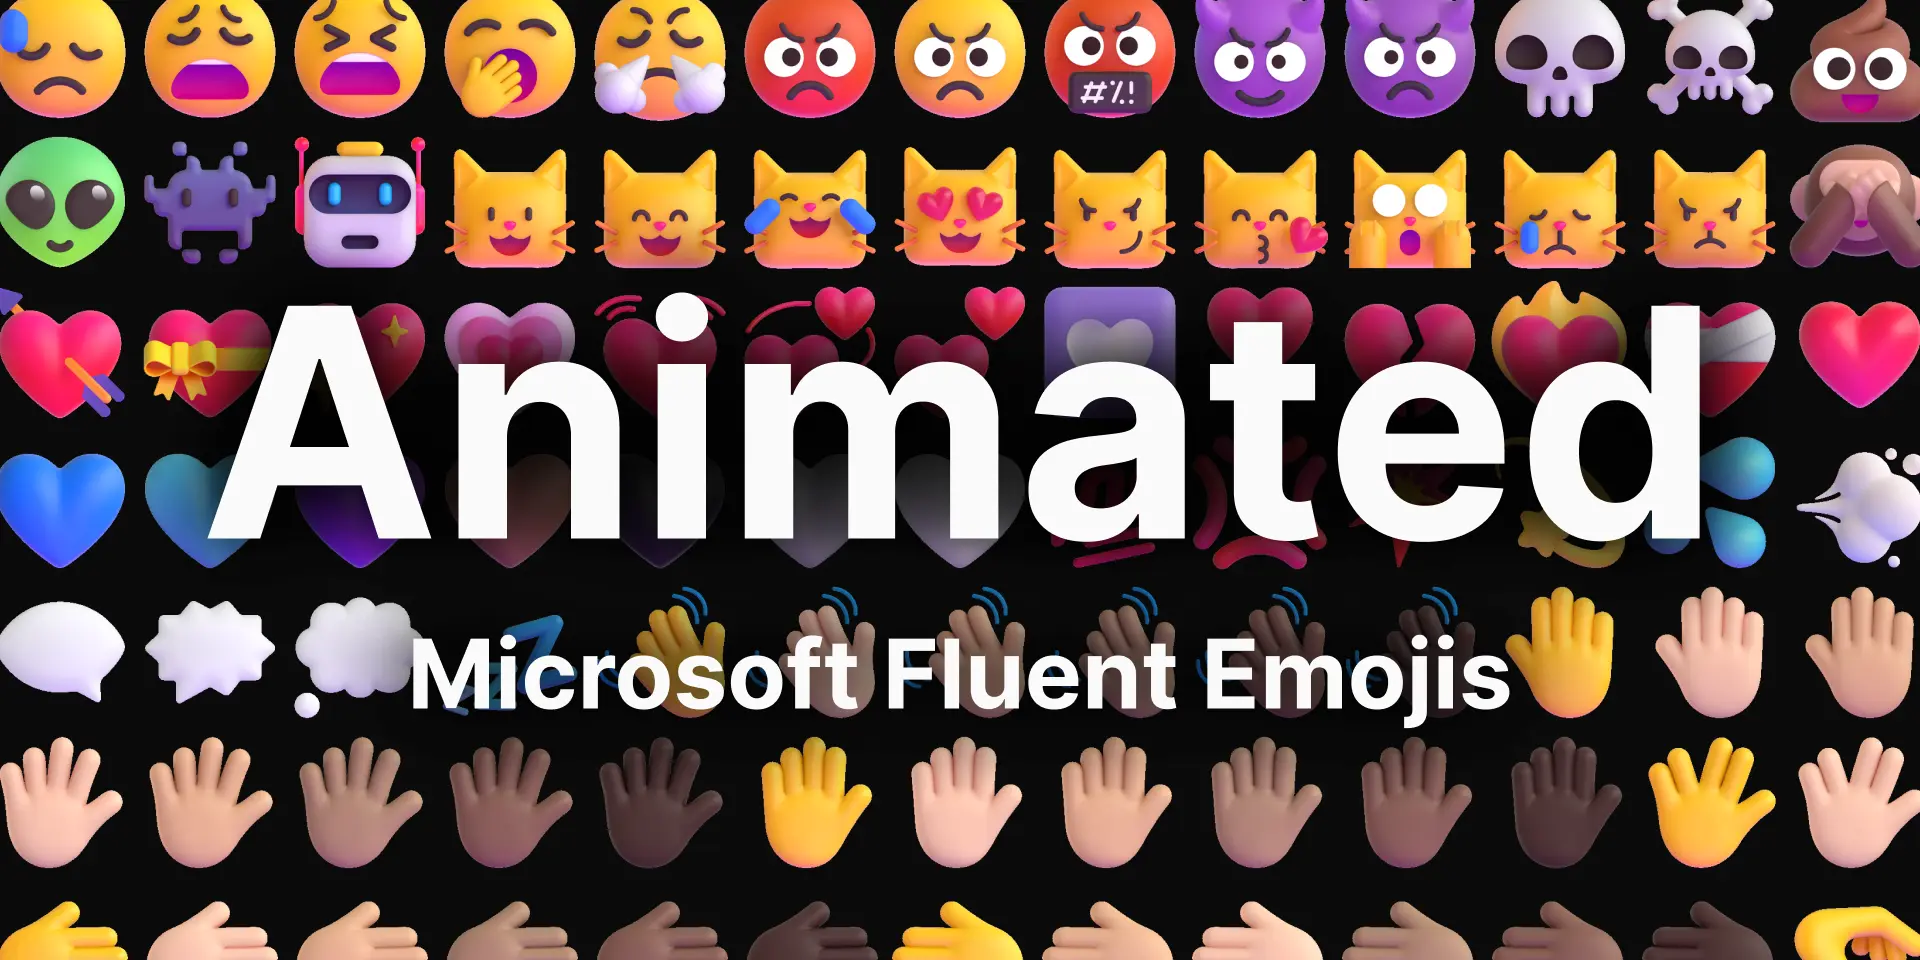
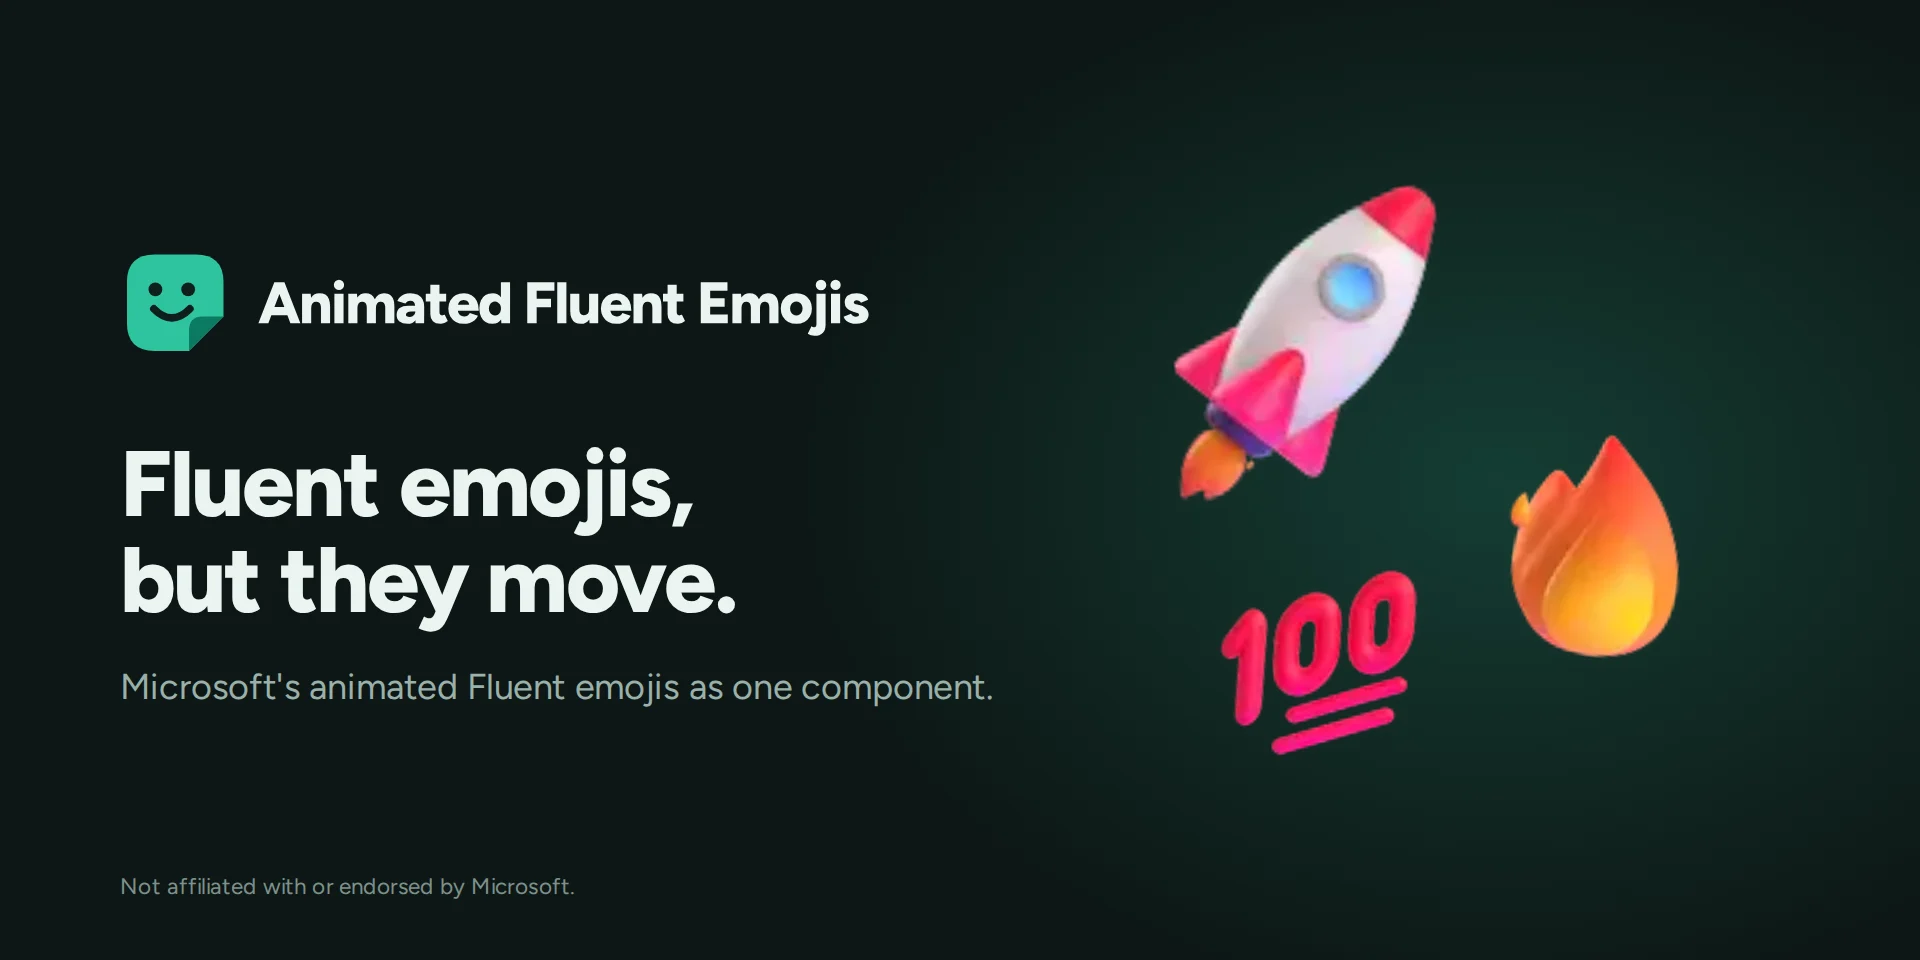
docs: 📝 apply the brand kit (#45)
## Summary

Applies the brand kit merged in #44 to the repository surfaces listed in
`docs/brand/apply-spec.md`.

- README: new intro and non-affiliation notice, features from
`docs/brand/copy.md`, the "Exclusive Feature" callout removed, headings
without decorative emoji, regenerated cover.
- `package.json`: new description and keywords. `CHANGELOG.md`:
`[Unreleased]` entry.
- ADR 0012 (brand kit lives in `docs/brand/`), docs index, `AGENTS.md`
and `docs/development.md` notes for `bun run brand:export`.

## Why

The kit was merged but the README, npm page and docs still described the
project with the old copy, including a claim ("first time", "exclusive")
the brand rules rule out.

## Notes

- Technical uses of "official" (official id, official repository) stay,
since they name Microsoft's upstream artifacts.
- GitHub settings (social preview, About, topics) are applied by hand
afterwards, per `docs/brand/apply-spec.md`.
- `bun run check`, `bun run test` and `bun run lint:docs` pass.

Closes AO-1343, AO-1344, AO-1345

diff --git a/README.md b/README.md
@@ -11,10 +11,21 @@
   <a href="https://scorecard.dev/viewer/?uri=github.com/AndryOre/animated-fluent-emojis"><img src="https://api.scorecard.dev/projects/github.com/AndryOre/animated-fluent-emojis/badge" alt="OpenSSF Scorecard"></a>
 </p>
 
-**Animated Fluent Emojis** is a React component library that brings Microsoft's
-Fluent emojis to life in your web applications. This library offers an easy way
-to integrate expressive and engaging animated emojis, enhancing user experience
-and visual appeal in your React projects.
+**Fluent emojis, but they move.**
+
+Drop Microsoft's animated Fluent emojis into a React app: one import, one tag.
+They play on load or on hover, rest on a still frame when someone asks for less
+motion, and hold their space in the layout while they load.
+
+```jsx
+<Emoji id="1f44b_wavinghand" />
+```
+
+Works with React 18 and 19.
+
+The artwork belongs to Microsoft. The code is ISC. This project is not
+affiliated with or endorsed by Microsoft. See
+[Assets and licensing](#assets-and-licensing).
 
 <p align="center">
   <img src="docs/assets/rocket-launch.webp" alt="Rocket Launch" width="100" height="100">
@@ -22,55 +33,50 @@ and visual appeal in your React projects.
   <img src="docs/assets/hundred-points.webp" alt="Hundred Points" width="100" height="100">
 </p>
 
-> 🎉 **Exclusive Feature:** Until now, these Animated Fluent Emojis were only
-> available within Microsoft Teams. This library makes them accessible for use
-> in any web application for the first time, bringing a unique and lively emoji
-> experience to your projects!
-
 <details>
 <summary>Table of Contents</summary>
 
-- [Features](#features-)
-- [Tech Stack](#tech-stack-)
-- [Installation](#installation-)
-- [Usage](#usage-)
+- [Features](#features)
+- [Tech Stack](#tech-stack)
+- [Installation](#installation)
+- [Usage](#usage)
 - [Props](#props)
 - [Migrating from 0.4](#migrating-from-04)
 - [Examples](#examples)
-- [Emoji Categories](#emoji-categories-)
+- [Emoji Categories](#emoji-categories)
 - [Contributing](#contributing)
 - [Support the Project](#support-the-project)
-- [License](#license-)
+- [License](#license)
 - [Acknowledgements](#acknowledgements)
 
 </details>
 
-## Features 🌟
+## Features
 
-- 🚀 **Easy Integration**: Simple React component for quick implementation in
-  your projects.
-- 🎨 **Customizable**: Adjust size, animation behavior, and more to fit your
-  design needs.
-- 🔄 **Flexible Animation**: Support for autoplay and hover- or focus-triggered
-  animations, and a still poster frame when the user prefers reduced motion.
-- ♿ **Accessible**: Descriptive `alt` text by default, or mark an emoji as
-  decorative.
-- 🖼 **Sharp on HD screens**: Emojis with an HD sprite sheet are served at 2x to
+- **One component.** `<Emoji id="…" />`, with `size`, `skinTone` and the other
+  props below.
+- **Plays when you want.** On load, on hover or focus, or driven by `playing`.
+- **Rests when asked.** Under reduced motion it stays on its poster frame.
+- **Holds its space.** An empty placeholder of the final size keeps the layout
+  steady while it loads. The manifest is fetched on first render, never at
+  import.
+- **Sharp on HD screens.** Emojis with an HD sprite sheet are served at 2x to
   high-density displays.
-- 🌈 **Wide Variety**: Access to a diverse set of emojis from Microsoft's Fluent
-  Emoji collection, with skin tone variants.
-- 📦 **Lightweight**: Optimized for performance to keep your applications fast
-  and responsive.
-- 🌐 **TypeScript Support**: Full TypeScript support for improved development
-  experience.
+- **Described by default.** `alt` comes from the emoji's description, and
+  `alt=""` marks it decorative.
+- **Fails softly.** A sprite sheet that does not load shows the emoji's native
+  character, or your own `fallback`.
+- **Findable.** `animated-fluent-emojis/lookup` turns a character or a
+  description into an id, with no React.
+- **Typed.** TypeScript types, with autocomplete for emoji ids.
 
-## Tech Stack 🧰
+## Tech Stack
 
 - [![React][React]][React-url]
 - [![TypeScript][TypeScript]][TypeScript-url]
 - [![Vite][Vite]][Vite-url]
 
-## Installation 🔧
+## Installation
 
 To install Animated Fluent Emojis in your project, run one of the following
 commands:
@@ -86,7 +92,7 @@ pnpm add animated-fluent-emojis
 The package supports React 18 and 19 (`react` and `react-dom` are peer
 dependencies) and is ESM-only.
 
-## Usage 📚
+## Usage
 
 1. Import the Emoji component and the stylesheet in your React file (the
    stylesheet import is required once, for example in your app entry). The
@@ -337,7 +343,7 @@ function App() {
 export default App
 ```
 
-## Emoji Categories 📋
+## Emoji Categories
 
 For a complete list of available emojis and their corresponding IDs, Unicode
 representations, descriptions, and keywords, please refer to our
@@ -373,7 +379,7 @@ project:
 
 Your support helps maintain and improve Animated Fluent Emojis!
 
-## License 📄
+## License
 
 Animated Fluent Emojis is totally free for commercial and personal use, this
 software is licensed under the [ISC License](LICENSE).

diff --git a/docs/brand/apply-spec.md b/docs/brand/apply-spec.md
@@ -11,22 +11,13 @@ the source of truth, and this file maps it to every surface. Status is as of
 | `package.json` script          | `brand:export` added. It regenerates the PNG marks, social preview, Open Graph image and README cover |
 | `docs/assets/Cover.webp`       | Regenerated by the script with the new lockup, tagline and emojis (1920x960)                          |
 | Logo, tokens, fonts, brandbook | In `docs/brand/`                                                                                      |
-
-## Repository changes still to apply
-
-| Surface               | Change                                                                                                                                                                                                    |
-| --------------------- | --------------------------------------------------------------------------------------------------------------------------------------------------------------------------------------------------------- |
-| `README.md` intro     | Replace the first paragraph and the "Exclusive Feature" callout with the intro in [`copy.md`](copy.md#readme-intro). Keep the three animated emojis under it                                              |
-| `README.md` features  | Replace the feature bullets with [`copy.md`](copy.md#readme-features)                                                                                                                                     |
-| `README.md` headings  | Remove the decorative emoji from section headings. The table-of-contents anchors change with them, so run `bun run lint:docs` afterwards                                                                  |
-| `README.md` notice    | Add the non-affiliation notice after the intro, linking to the existing "Assets and licensing" section                                                                                                    |
-| `README.md` cover     | `alt` text stays "Animated Fluent Emojis"                                                                                                                                                                 |
-| `package.json`        | `description` and `keywords` from [`copy.md`](copy.md#packagejson)                                                                                                                                        |
-| `CHANGELOG.md`        | One `Changed` entry under `[Unreleased]`, from [`copy.md`](copy.md#changelog-entry-draft)                                                                                                                 |
-| `docs/README.md`      | Add `brand/README.md` to the index                                                                                                                                                                        |
-| `AGENTS.md`           | Add `bun run brand:export` to "Running scripts": run it after changing a logo SVG or the export copy, and never edit the generated rasters by hand                                                        |
-| `docs/development.md` | A short "Brand assets" note under scripts, pointing to `docs/brand/README.md`                                                                                                                             |
-| ADR                   | Optional ADR 0012, "Brand kit lives in `docs/brand`": the name stays literal, the face exception for the logo, and the Figtree and Mint choices. Needs the ADR index row and an entry in `docs/README.md` |
+| `README.md`                    | Intro, notice and features from `copy.md`, plain section headings, cover alt text unchanged           |
+| `package.json`                 | `description` and `keywords` from `copy.md`                                                           |
+| `CHANGELOG.md`                 | One `Changed` entry under `[Unreleased]`                                                              |
+| `docs/README.md`               | Brand section linking `brand/README.md`, and ADRs 0010 to 0012 listed                                 |
+| `AGENTS.md`                    | `bun run brand:export` in "Running scripts"                                                           |
+| `docs/development.md`          | "Brand assets" note under scripts                                                                     |
+| ADR 0012                       | `docs/adr/0012-brand-kit-in-docs-brand.md`, with its index row                                        |
 
 No change is needed in `knip.jsonc`, ESLint or Prettier: `bun run lint`,
 `bun run knip` and `bun run format:check` already pass with the tool in place,

diff --git a/docs/adr/0012-brand-kit-in-docs-brand.md b/docs/adr/0012-brand-kit-in-docs-brand.md
@@ -1,0 +1,60 @@
+# 0012: Brand kit lives in docs/brand
+
+## Status
+
+Accepted
+
+Date: 2026-10-05
+
+## Context
+
+The project had no identity beyond its name: the README led with a feature pitch
+and the cover was a screenshot. A brand kit was produced (brief, naming study,
+voice, copy, logo, tokens and an HTML brand book) and needs a home, a naming
+decision and a few rules that touch existing policy. The ROADMAP rules out
+custom artwork, the README and npm page render with the platform's own fonts,
+and the repository has about 280 downloads a month, so search matters more than
+word of mouth.
+
+## Decision
+
+- **The kit lives in `docs/brand/`.** It is versioned with the code, reviewed in
+  pull requests and indexed from `docs/README.md`.
+  [`docs/brand/README.md`](../brand/README.md) is its entry point and
+  `docs/brand/apply-spec.md` maps it to repository surfaces.
+- **The name stays literal.** The brand is "Animated Fluent Emojis" on npm, in
+  the repository, the README and on social. The brand is applied as identity
+  (mark, voice, palette, motion), not as a new name.
+- **Mint palette.** Mint is the brand colour, with a dark surface for the cover
+  and social images.
+- **Sticker logo, with a generic-face exception.** The mark is a mint squircle
+  with a minimal face. This is the one exception to the "no own artwork" rule:
+  the face copies no Microsoft emoji and appears only in the mark.
+- **Figtree and Geist Mono are scoped to brand assets.** They are used in the
+  logo lockup, the cover, the social images and the brand book. The README and
+  npm page keep the platform's fonts.
+- **Rasters are regenerated only by `bun run brand:export`.** The PNG marks, the
+  social preview, the Open Graph image and the README cover are generated from
+  the logo SVGs and the copy in the export script, and are never edited by hand.
+
+### Rejected alternatives
+
+- **Renaming to Framemoji**: it scored higher as a pure name, but every
+  competitor is literal, the project has no audience yet and a new name has to
+  be taught first. It would also need a new package, a deprecation of the old
+  one and a repository rename for a small user base. Framemoji stays free and is
+  kept open if the project outgrows the Fluent set.
+- **Keeping brand docs outside the repository**: they would drift from the
+  surfaces they describe, and the generated rasters need the sources next to
+  them to be reproducible.
+
+## Consequences
+
+- Brand changes go through pull requests like code, and `bun run lint:docs`
+  checks the links in the kit.
+- Generated rasters are committed, so a change to a logo SVG or the export copy
+  must be followed by `bun run brand:export`.
+- The logo is the only place with own artwork; any other custom artwork needs a
+  new decision.
+- Copy on every surface follows `docs/brand/copy.md`, including the notice that
+  the project is not affiliated with or endorsed by Microsoft.

diff --git a/docs/README.md b/docs/README.md
@@ -40,6 +40,14 @@ An index of every document in this repository.
 - [`adr/0007-pinned-official-emoji-ids.md`](adr/0007-pinned-official-emoji-ids.md)
 - [`adr/0008-static-keyframes-and-lazy-slim-manifest.md`](adr/0008-static-keyframes-and-lazy-slim-manifest.md)
 - [`adr/0009-hd-sprite-sheets-and-strict-validation.md`](adr/0009-hd-sprite-sheets-and-strict-validation.md)
+- [`adr/0010-versioned-asset-layout-and-live-seeding.md`](adr/0010-versioned-asset-layout-and-live-seeding.md)
+- [`adr/0011-compact-slim-manifest-and-hd-frame-cap.md`](adr/0011-compact-slim-manifest-and-hd-frame-cap.md)
+- [`adr/0012-brand-kit-in-docs-brand.md`](adr/0012-brand-kit-in-docs-brand.md)
+
+## Brand
+
+- [`brand/README.md`](brand/README.md): the brand kit, with the brief, naming,
+  voice, copy, logo, tokens and brand book.
 
 ## Agent workflow
 

diff --git a/docs/development.md b/docs/development.md
@@ -36,6 +36,13 @@ the git hooks on `bun install` through the `prepare` script.
 | `bun run assets:lists`  | Regenerates `docs/EMOJI_LIST_*.md` from `dist-assets/manifest.json`.                                   |
 | `bun run ci:local`      | Runs the CI pipeline locally: install, commits, docs, check, coverage, build, size.                    |
 
+### Brand assets
+
+`bun run brand:export` regenerates the PNG marks, the social preview, the Open
+Graph image and the README cover from the logo SVGs and the export copy. Run it
+after changing either, and never edit the generated rasters by hand. See
+[`brand/README.md`](brand/README.md).
+
 ## Git hooks
 
 Hooks live in `.husky/`:

diff --git a/docs/adr/README.md b/docs/adr/README.md
@@ -24,3 +24,4 @@ column.
 | 0009   | [HD sprite sheets, content-hashed etags and strict validation](0009-hd-sprite-sheets-and-strict-validation.md) | Accepted | 0011                     |
 | 0010   | [Versioned asset layout and live seeding](0010-versioned-asset-layout-and-live-seeding.md)                     | Accepted | 0011                     |
 | 0011   | [Compact slim manifest, HD frame cap and layout-aware sync](0011-compact-slim-manifest-and-hd-frame-cap.md)    | Accepted | -                        |
+| 0012   | [Brand kit lives in docs/brand](0012-brand-kit-in-docs-brand.md)                                               | Accepted | -                        |

diff --git a/AGENTS.md b/AGENTS.md
@@ -19,6 +19,8 @@ never use another package manager (this repo uses `bun.lock`). Read
 - `bun run check` — format, lint, typecheck, knip and package lint. Run this
   after any change.
 - `bun run test` — the Vitest suite. Run this after any change.
+- `bun run brand:export` — regenerates the brand rasters. Run it after changing
+  a logo SVG or the export copy; never edit the generated rasters by hand.
 - `bun run build` — **do not run unless explicitly asked.** It is slow; `check`
   already builds once through `lint:package`.
 

diff --git a/CHANGELOG.md b/CHANGELOG.md
@@ -8,6 +8,13 @@ and this project adheres to
 
 ## [Unreleased]
 
+### Changed
+
+- The package description, keywords and README intro describe what the component
+  does today. The "Exclusive Feature" callout is removed.
+- Added a brand kit in `docs/brand/` and the `bun run brand:export` script that
+  generates its rasters.
+
 ## [0.5.2] - 2026-10-05
 
 ### Fixed
